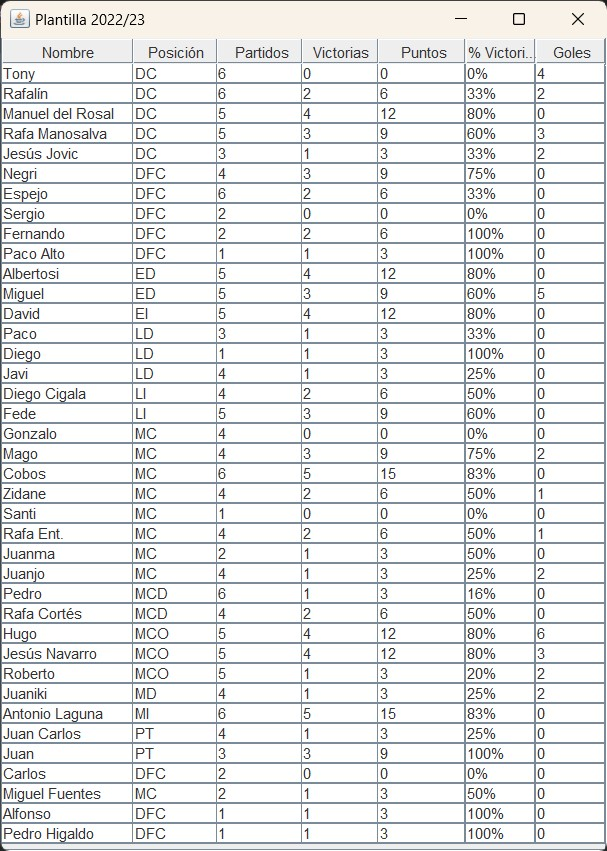
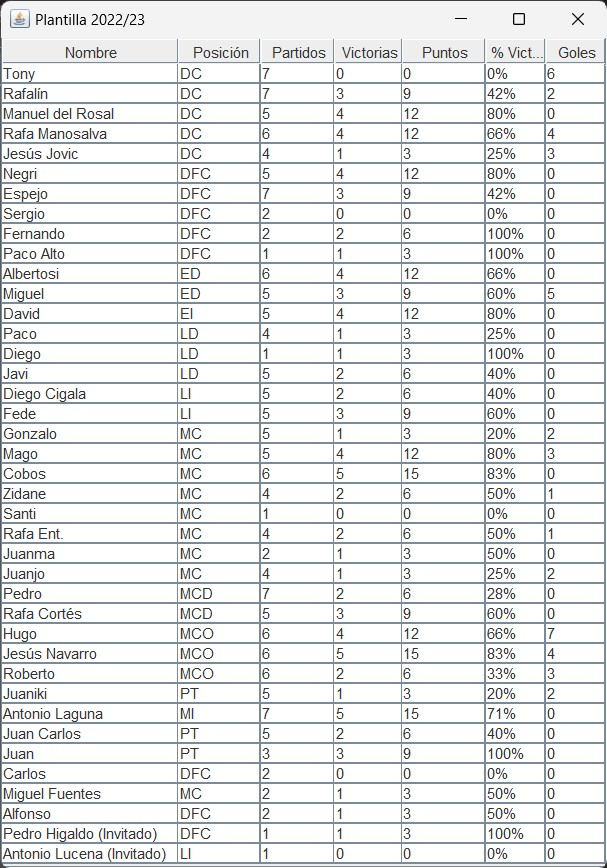
Seventh game

diff --git a/test/TestQuemadillas.java b/test/TestQuemadillas.java
@@ -26,7 +26,7 @@ public class TestQuemadillas {
 		List<Player> lista = initialTest();
 		//showData(lista);
 		//topScorers(lista,"poi");
-		tableRafalin(lista);
+		tableTop(lista);
 	}
 	
 	
